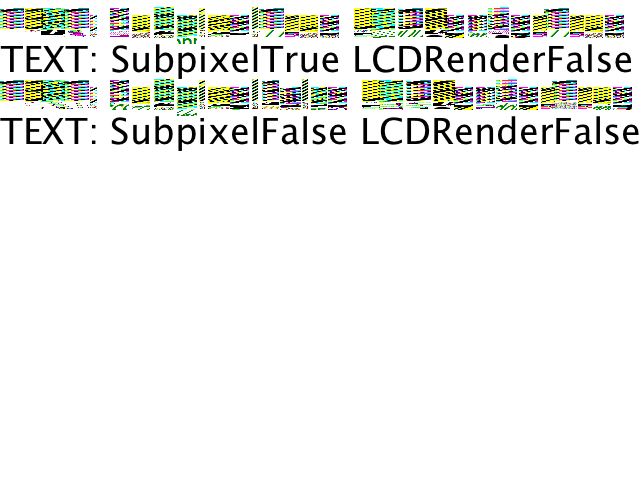
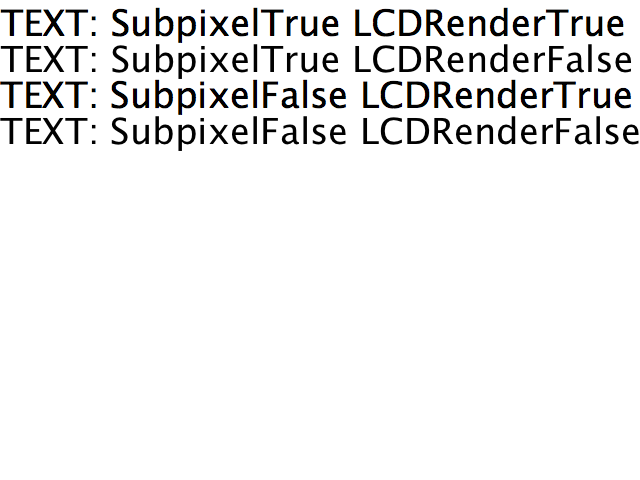
change gamma for white and neutral text

Changed region(s): [[0.0, 0.1562, 1.0, 0.25], [0.0, 0.0, 1.0, 0.0938]]

diff --git a/src/ports/SkFontHost_mac_coretext.cpp b/src/ports/SkFontHost_mac_coretext.cpp
@@ -413,14 +413,10 @@ SkScalerContext_Mac::SkScalerContext_Mac(const SkDescriptor* desc)
 
 
     // Initialise ourselves
-    if (fRec.fFlags & (SkScalerContext::kGammaForBlack_Flag |
-                       SkScalerContext::kGammaForWhite_Flag)) {
-        mColorSpaceRGB = CGColorSpaceCreateDeviceRGB();
-    } else {
-        // in hopes that this won't perform any gamma correction
-        mColorSpaceRGB = CGColorSpaceCreateWithName(kCGColorSpaceGenericRGBLinear);
-    }
+    mColorSpaceRGB = CGColorSpaceCreateDeviceRGB();
+//    mColorSpaceRGB = CGColorSpaceCreateWithName(kCGColorSpaceGenericRGBLinear);
 //    mColorSpaceRGB = CGColorSpaceCreateWithName(kCGColorSpaceGenericRGB);
+
     mColorSpaceGray = CGColorSpaceCreateDeviceGray();
     mTransform = MatrixToCGAffineTransform(skMatrix);
 
@@ -484,15 +480,11 @@ void SkScalerContext_Mac::generateMetrics(SkGlyph* glyph)
     CGRect      theBounds;
     CGGlyph     cgGlyph;
 
-
-
     // Get the state we need
     cgGlyph = (CGGlyph) glyph->getGlyphID(fBaseGlyphCount);
 
     CTFontGetBoundingRectsForGlyphs(mFont, kCTFontDefaultOrientation, &cgGlyph, &theBounds,  1);
     CTFontGetAdvancesForGlyphs(     mFont, kCTFontDefaultOrientation, &cgGlyph, &theAdvance, 1);
-
-
 
     // Adjust the bounds
     //
@@ -501,8 +493,6 @@ void SkScalerContext_Mac::generateMetrics(SkGlyph* glyph)
     //
     // The bounds are also expanded by 1 pixel, to give CG room for anti-aliasing.
     theBounds = CGRectInset(theBounds, -1, -1);
-
-
 
     // Get the metrics
     glyph->zeroMetrics();
@@ -542,6 +532,41 @@ void SkScalerContext_Mac::generateMetrics(SkGlyph* glyph)
 }
 
 #include "SkColorPriv.h"
+
+static void build_power_table(uint8_t table[], float ee) {
+    for (int i = 0; i < 256; i++) {
+        float x = i / 255.f;
+        x = powf(x, ee);
+        int xx = SkScalarRound(SkFloatToScalar(x * 255));
+        table[i] = SkToU8(xx);
+    }
+}
+
+static const uint8_t* getInverseTable(bool isWhite) {
+    static uint8_t gWhiteTable[256];
+    static uint8_t gTable[256];
+    static bool gInited;
+    if (!gInited) {
+        build_power_table(gWhiteTable, 1.5f);
+        build_power_table(gTable, 2.2f);
+        gInited = true;
+    }
+    return isWhite ? gWhiteTable : gTable;
+}
+
+static void invertGammaMask(bool isWhite, uint32_t rgb[], size_t rb, int height) {
+    const uint8_t* table = getInverseTable(isWhite);
+    for (int y = 0; y < height; ++y) {
+        uint32_t* stop = (uint32_t*)((char*)rgb + rb);
+        while (rgb < stop) {
+            uint32_t c = *rgb;
+            int r = (c >> 16) & 0xFF;
+            int g = (c >>  8) & 0xFF;
+            int b = (c >>  0) & 0xFF;
+            *rgb++ = (table[r] << 16) | (table[g] << 8) | table[b];
+        }
+    }
+}
 
 static void bytes_to_bits(uint8_t dst[], const uint8_t src[], int count) {
     while (count > 0) {
@@ -621,7 +646,7 @@ void SkScalerContext_Mac::generateImage(const SkGlyph& glyph) {
     bool isBlack = SkToBool(fRec.fFlags & SkScalerContext::kGammaForBlack_Flag);
     bool isWhite = SkToBool(fRec.fFlags & SkScalerContext::kGammaForWhite_Flag);
     uint32_t xorMask;
-    bool needToDoubleSrc = false;
+    bool invertGamma = false;
 
     /*  For LCD16, we first create a temp offscreen cg-context in 32bit,
      *  erase to white, and then draw a black glyph into it. Then we can
@@ -641,10 +666,11 @@ void SkScalerContext_Mac::generateImage(const SkGlyph& glyph) {
             erase = 0xFF;
             xorMask = ~0;
             grayColor = 0;
-        } else {    /* white or neutral (with a linear colorspace) */
+        } else {    /* white or neutral */
             erase = 0;
             xorMask = 0;
             grayColor = 1;
+            invertGamma = true;
         }
         memset(image, erase, size);
         doLCD = true;
@@ -693,6 +719,10 @@ void SkScalerContext_Mac::generateImage(const SkGlyph& glyph) {
         CGContextShowGlyphsAtPoint( cgContext, -glyph.fLeft + subX,
                                     glyph.fTop + glyph.fHeight - subY,
                                     &cgGlyph, 1);
+
+        if (invertGamma) {
+            invertGammaMask(isWhite, (uint32_t*)image, rowBytes, glyph.fHeight);
+        }
 
         if (SkMask::kLCD16_Format == glyph.fMaskFormat) {
             // downsample from rgba to rgb565
